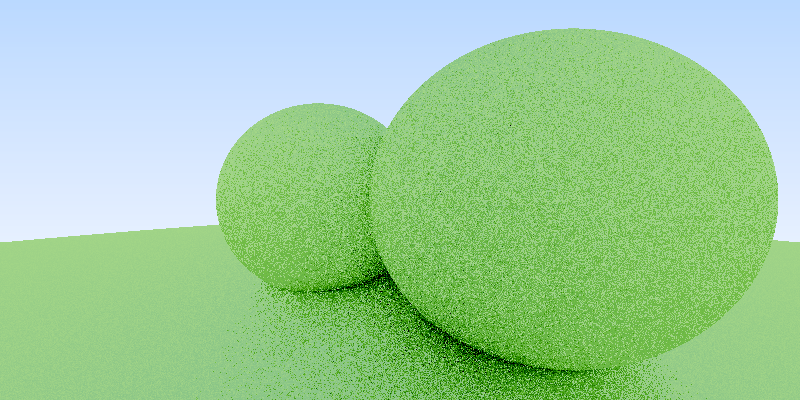
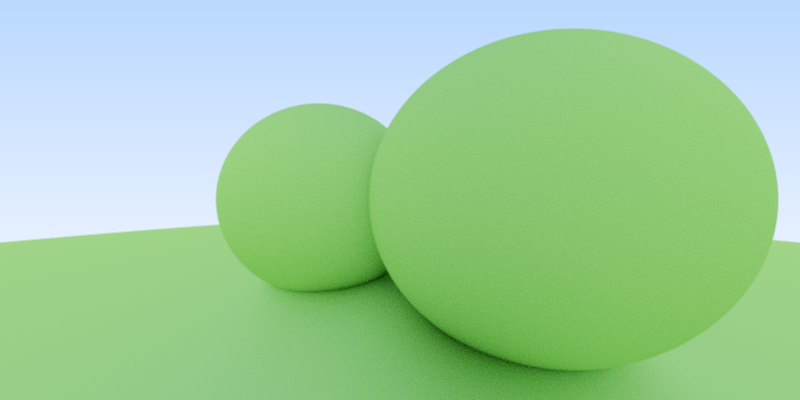
Add anti-aliasing

diff --git a/src/raytracer.cpp b/src/raytracer.cpp
@@ -1,5 +1,6 @@
 #include "raytracer.h"
 #include <cmath>
+#include "utilities\random.h"
 
 Raytracer::Raytracer(int width, int height, int depth, float gamma)
     : width(width), height(height), maxDepth(depth), gamma(gamma) {}
@@ -12,7 +13,7 @@ static Color linearToGamma(const Color &color, float value)
     return Color::fromVector(result);
 }
 
-void Raytracer::render(const Scene &scene, const Camera &camera)
+void Raytracer::render(const Scene &scene, const Camera &camera, bool antialiasing, int passes)
 {
     output.clear();
     for (int y = height - 1; y >= 0; y--)
@@ -20,10 +21,26 @@ void Raytracer::render(const Scene &scene, const Camera &camera)
         std::vector<Color> row;
         for (int x = 0; x < width; x++)
         {
-            float xx = (float)x / width;
-            float yy = (float)y / height;
-
-            row.push_back(linearToGamma(trace(scene, camera.cast(xx, yy), 0), gamma));
+            if (antialiasing)
+            {
+                Vector3 color;
+                for (size_t i = 0; i < passes; i++)
+                {
+                    float xx = float(x + Random::random()) / float(width);
+                    float yy = float(y + Random::random()) / float(height);
+                    color = color + trace(scene, camera.cast(xx, yy), 0).vector(); 
+                }
+                
+                color = color / passes;
+                row.push_back(linearToGamma(Color::fromVector(color), gamma));
+            }
+            else
+            {
+                float xx = (float)x / width;
+                float yy = (float)y / height;
+    
+                row.push_back(linearToGamma(trace(scene, camera.cast(xx, yy), 0), gamma));
+            }
         }
 
         output.push_back(row);

diff --git a/src/materials/diffuse.cpp b/src/materials/diffuse.cpp
@@ -1,20 +1,5 @@
 #include "diffuse.h"
-#include <random>
-
-static Vector3 randomInUnitSphere()
-{
-	static std::random_device device;
-	static std::mt19937 generator(device());
-	static std::uniform_real_distribution<float> dist(-1, 1);
-
-	Vector3 p = Vector3(dist(generator), dist(generator), dist(generator)) * 2.0f - Vector3(1, 1, 1);
-	while(dot(p, p) >= 1.0f) 
-	{
-		p = Vector3(dist(generator), dist(generator), dist(generator)) * 2.0f - Vector3(1, 1, 1);
-	}
-
-	return p;
-}
+#include "..\utilities\random.h"
 
 Diffuse::Diffuse(Vector3 albedo)
     : albedo(albedo) { }
@@ -22,7 +7,7 @@ Diffuse::Diffuse(Vector3 albedo)
 bool Diffuse::scatter(const Ray& ray, const Intersection& intersection,
     Vector3& attenuation, Ray& scattered) const
 {
-    Vector3 target = intersection.point + intersection.normal + randomInUnitSphere();
+    Vector3 target = intersection.point + intersection.normal + Random::randomInUnitSphere();
     Vector3 direction = target - intersection.point;
     normalize(direction);
     scattered = Ray(intersection.point, direction);

diff --git a/src/utilities/random.cpp b/src/utilities/random.cpp
@@ -1,0 +1,29 @@
+#include "random.h"
+
+std::random_device Random::device;
+std::mt19937 Random::generator(device());
+
+bool Random::reseed()
+{
+	generator.seed(device());
+}
+
+float Random::random()
+{
+	static std::uniform_real_distribution<float> dist(-1, 1);
+	return dist(generator);
+}
+
+Vector3 Random::randomInUnitSphere()
+{
+    static std::uniform_real_distribution<float> dist(-1, 1);
+    // generator.seed(device());
+    
+    Vector3 p = Vector3(dist(generator), dist(generator), dist(generator)) * 2.0f - Vector3(1, 1, 1);
+	while(dot(p, p) >= 1.0f) 
+	{
+		p = Vector3(dist(generator), dist(generator), dist(generator)) * 2.0f - Vector3(1, 1, 1);
+	}
+
+	return p;
+}

diff --git a/src/main.cpp b/src/main.cpp
@@ -3,10 +3,12 @@
 #include "raytracer.h"
 #include "geometry\sphere.h"
 #include "materials\diffuse.h"
+#include "materials\metal.h"
 
 #define IMAGE_SCALE 		4
 #define IMAGE_WIDTH 		int(200 * IMAGE_SCALE)
 #define IMAGE_HEIGHT 		int(100 * IMAGE_SCALE)
+#define AA_PASSES			100
 
 #define TRACE_MAX_DEPTH		50
 
@@ -38,7 +40,7 @@ int main()
 	Camera camera;
 
 	elapsedSeconds();
-	raytracer.render(scene, camera);
+	raytracer.render(scene, camera, true, AA_PASSES);
 	float elapsed = elapsedSeconds();
 	printf("Done in %.2fms!\n", elapsed*1000);
 

diff --git a/src/raytracer.h b/src/raytracer.h
@@ -11,7 +11,7 @@ class Raytracer
 public:
     // TODO: Resolution will be decided by the Camera.
     Raytracer(int width, int height, int depth, float gamma = 2.2f);
-    void render(const Scene& scene, const Camera& camera);
+    void render(const Scene& scene, const Camera& camera, bool antialiasing, int passes = 100);
     void saveAsImageFile(const std::string& filename);
 
 private:

diff --git a/src/math.cpp b/src/math.cpp
@@ -24,6 +24,11 @@ Vector3 operator*(const Vector3& vector, float scalar)
     return Vector3(vector.x * scalar, vector.y * scalar, vector.z * scalar);
 }
 
+Vector3 operator/(const Vector3& vector, float scalar)
+{
+    return Vector3(vector.x / scalar, vector.y / scalar, vector.z / scalar); 
+}
+
 float length(const Vector3& vector)
 {
     return sqrt(vector.x * vector.x + 

diff --git a/src/math.h b/src/math.h
@@ -12,6 +12,7 @@ struct Vector3
 Vector3 operator+(const Vector3& v1, const Vector3& v2);
 Vector3 operator-(const Vector3& v1, const Vector3& v2);
 Vector3 operator*(const Vector3& vector, float scalar);
+Vector3 operator/(const Vector3& vector, float scalar);
 
 float length(const Vector3& vector);
 float dot(const Vector3& a, const Vector3& b);

diff --git a/src/utilities/random.h b/src/utilities/random.h
@@ -1,0 +1,15 @@
+#pragma once
+#include <random>
+#include "..\math.h"
+
+class Random
+{
+public:
+    static bool reseed();
+    static float random();
+    static Vector3 randomInUnitSphere();
+
+private:
+    static std::random_device device;
+	static std::mt19937 generator;
+};

diff --git a/src/materials/metal.h b/src/materials/metal.h
@@ -1,0 +1,11 @@
+#pragma once
+#include "..\material.h"
+
+class Metal : public Material
+{
+public:
+    Metal();
+
+    virtual bool scatter(const Ray& ray, const Intersection& intersection,
+        Vector3& attenuation, Ray& scattered) const override;
+};

diff --git a/src/materials/metal.cpp b/src/materials/metal.cpp
@@ -1,0 +1,10 @@
+#include "metal.h"
+
+Metal::Metal()
+{}
+
+bool Metal::scatter(const Ray& ray, const Intersection& intersection,
+    Vector3& attenuation, Ray& scattered) const
+{
+
+}
